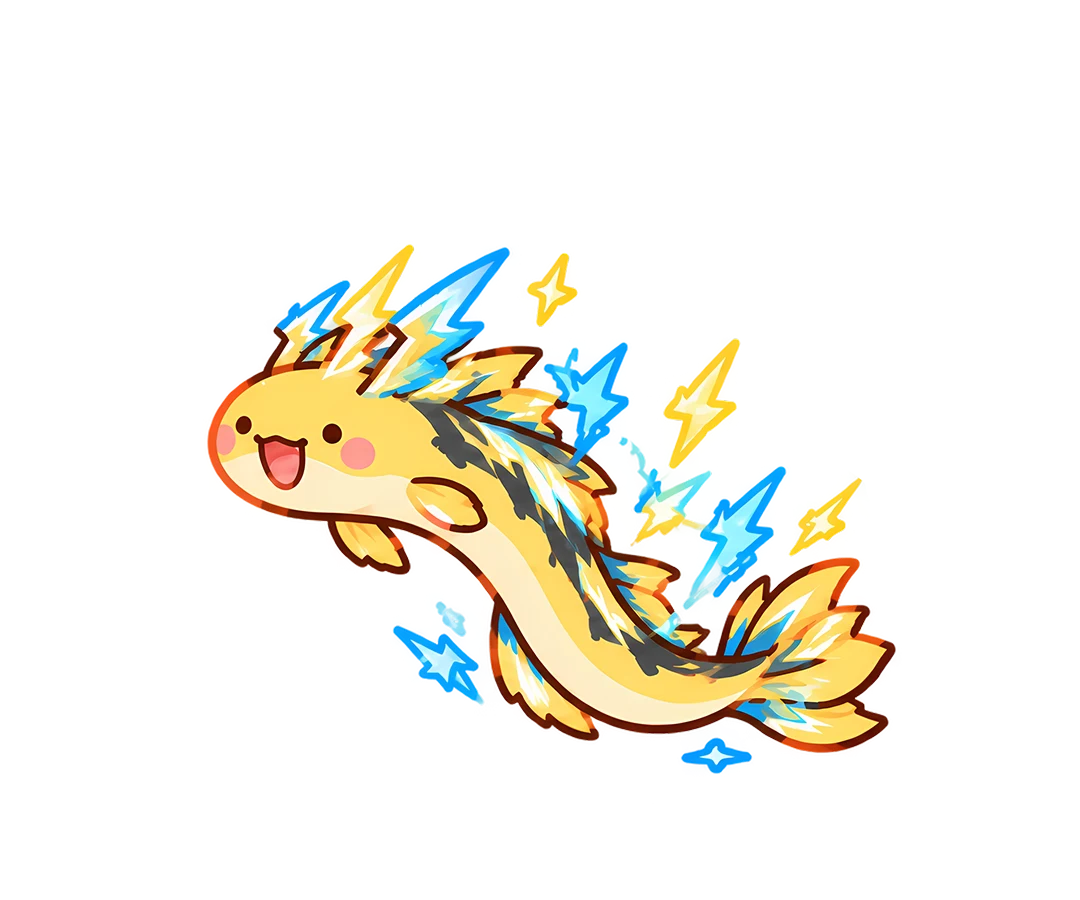
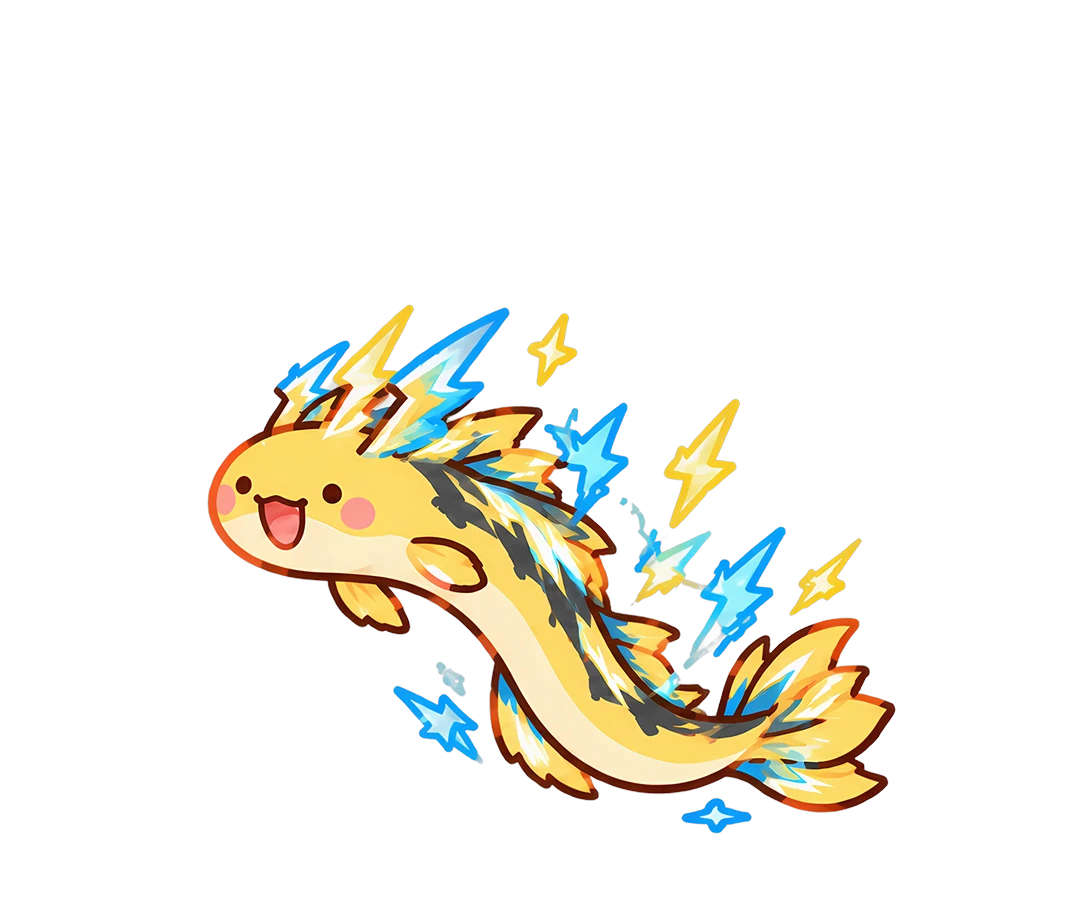
fish: 魚系大圖統一下移貼底(底部留白36px,比照貓基準)＋信箱附件摘要折行
魚1~3階原底部留白35~156px不一致→編隊/詳情位置偏高;信箱送卡多時摘要爆出卡片右緣→以部件為單位量寬折行,信件卡高度自適應

Changed region(s): [[0.1833, 0.28, 0.825, 0.9333]]

diff --git a/public/play/index.html b/public/play/index.html
@@ -10183,7 +10183,24 @@
       }
       mailRow(g, m, L, y, w, T) {   // 單封信卡片(標題大字/內文/附件預覽/領取狀態);回傳實際高度供上層疊列
         const summary = mailAttachSummary(m.attach), hasAttach = !!summary, bodyTxt = String(m.body || '');
-        const h = 34 + 40 + (hasAttach ? 24 : 0) + 54;
+        // 🆕2026-10-31 附件摘要折行:送卡一多單行會爆出卡片右緣→以「部件」(每張卡/每種資源)為單位量寬,超過可用寬就換行,卡片高度跟著長
+        const sumLH = 22, sumLines = [];
+        if (hasAttach) {
+          const ww = w - 50, parts = summary.split('  ');
+          const _mt = this.add.text(0, 0, '', { fontFamily: EMOJIFONT, fontSize: FS.cap, fontStyle: 'bold' }).setVisible(false);
+          const meas = s => { _mt.setText(s); return _mt.width; };
+          const spW = meas('  ');
+          let cur = '', curW = 0;
+          parts.forEach(p => {
+            const pw2 = meas(p);
+            if (!cur) { cur = p; curW = pw2; return; }
+            if (curW + spW + pw2 > ww) { sumLines.push(cur); cur = p; curW = pw2; }
+            else { cur += '  ' + p; curW += spW + pw2; }
+          });
+          if (cur) sumLines.push(cur);
+          _mt.destroy();
+        }
+        const h = 34 + 40 + (hasAttach ? sumLines.length * sumLH + 2 : 0) + 54;
         const cx = L + w / 2, cy = y + h / 2;
         g.add(roundRectG(this, cx, cy, w, h, 14, m.claimed ? T.surf2 : T.surf, 1, m.claimed ? T.divider : T.gold, m.claimed ? 1 : 2));
         let ty = y + 22;
@@ -10197,7 +10214,16 @@
         ty += 28;
         g.add(this.add.text(L + 14, ty, bodyTxt, { fontFamily: EMOJIFONT, fontSize: FS.cap, color: T.ink2, wordWrap: { width: w - 110 }, lineSpacing: 4 }).setOrigin(0, 0));
         ty += 40;
-        if (hasAttach) { const _giftReady = _iconReady(this, 'ui_gift'); if (_giftReady) { g.add(this.add.image(L + 14 + 9, ty, 'ui_gift').setDisplaySize(18, 18)); if (!emoRow(this, o => g.add(o), L + 14 + 22, ty, summary, { fs: FS.cap, col: T.goldTx, ox: 0, gap: 5 })) g.add(this.add.text(L + 14 + 22, ty, summary, { fontFamily: EMOJIFONT, fontSize: FS.cap, color: T.goldTx, fontStyle: 'bold' }).setOrigin(0, 0.5)); }   /* 🆕2026-10-28b 摘要內 💎/🪙/屬晶 emoji→icon */ else g.add(this.add.text(L + 14, ty, '🎁 ' + summary, { fontFamily: EMOJIFONT, fontSize: FS.cap, color: T.goldTx, fontStyle: 'bold' }).setOrigin(0, 0.5)); }   // 🆕2026-09-23 開頭 🎁 前綴→icon_gift;未載到 fallback 原文字
+        if (hasAttach) {   // 🆕2026-10-31 摘要逐行畫(折行見上方 sumLines);🎁 icon 只畫在第一行左側
+          const _giftReady = _iconReady(this, 'ui_gift');
+          if (_giftReady) g.add(this.add.image(L + 14 + 9, ty, 'ui_gift').setDisplaySize(18, 18));
+          const sx = L + 14 + (_giftReady ? 22 : 0);
+          sumLines.forEach((ln, i) => {
+            const ly = ty + i * sumLH, txt0 = (!_giftReady && i === 0) ? '🎁 ' + ln : ln;
+            if (!emoRow(this, o => g.add(o), sx, ly, txt0, { fs: FS.cap, col: T.goldTx, ox: 0, gap: 5 }))   /* 🆕2026-10-28b 摘要內 💎/🪙/屬晶 emoji→icon */
+              g.add(this.add.text(sx, ly, txt0, { fontFamily: EMOJIFONT, fontSize: FS.cap, color: T.goldTx, fontStyle: 'bold' }).setOrigin(0, 0.5));   // 🆕2026-09-23 開頭 🎁 前綴→icon_gift;未載到 fallback 原文字
+          });
+        }
         const by = y + h - 30, bw = 100, bh = 44, bcx = L + w - bw / 2 - 8;
         if (m.claimed) {
           g.add(roundRectG(this, bcx, by, bw, bh, bh / 2, T.surf2, 1, T.divider, 1.5));
